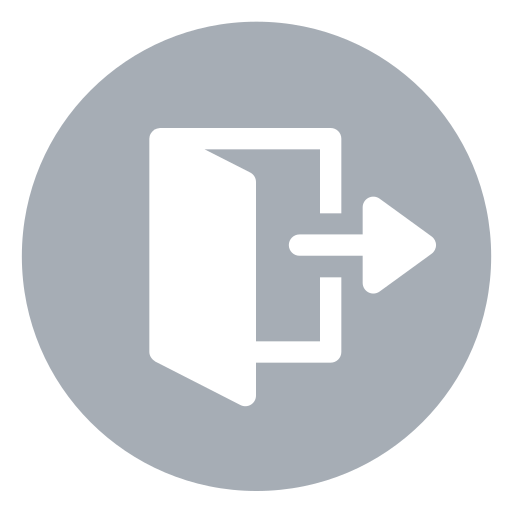
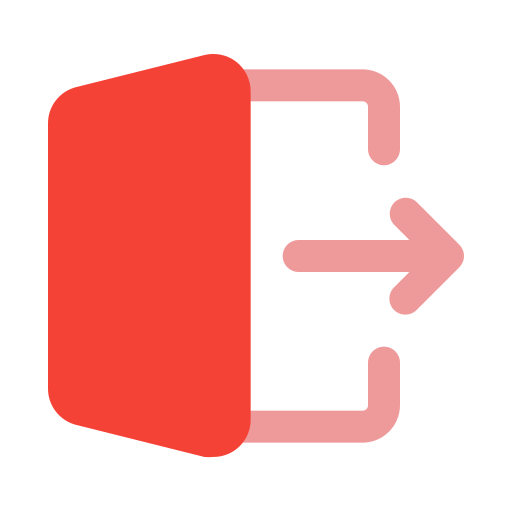
FIX : taille des icones de boutons et changement icone deconnexion

diff --git a/assets/react/controllers/components/molecules/modal/modal.tsx b/assets/react/controllers/components/molecules/modal/modal.tsx
@@ -14,7 +14,7 @@ export default function Modal({ isOpen, onClose, children }: ModalProps) {
             <div className="relative bg-white rounded-lg shadow-lg p-6 w-full max-w-md">
                 <button
                     onClick={onClose}
-                    className="absolute top-2 right-2 text-gray-500 hover:text-gray-800"
+                    className="absolute top-2 right-2 text-gray-500 hover:text-gray-800 cursor-pointer"
                 >
                     ✕
                 </button>

diff --git a/assets/react/controllers/components/pages/blockPage.tsx b/assets/react/controllers/components/pages/blockPage.tsx
@@ -92,7 +92,7 @@ const BlockPage: React.FC<BlockPageProps> = ({ blocks: initialBlock, csrfToken }
   return (
     <div className="p-8">
       <div className="flex items-center mb-6">
-        <h1 className="text-2xl font-bold">Mes Compétences</h1>
+        <h1 className="text-2xl font-bold whitespace-nowrap">Mes Compétences</h1>
         <AddButton onClick={() => setIsAddModalOpen(true)} />
       </div>
       <BlockList

diff --git a/assets/react/controllers/components/atoms/deleteButton.tsx b/assets/react/controllers/components/atoms/deleteButton.tsx
@@ -14,7 +14,7 @@ export default function DeleteButton({ onClick }: Props) {
             <img 
                 src={DeleteIcon} 
                 alt="Supprimer" 
-                className="w-5 h-5 align-middle" 
+                className="w-5 h-5 min-w-[1.25rem] min-h-[1.25rem] align-middle" 
             />
         </span>
     );

diff --git a/assets/react/controllers/components/atoms/editButton.tsx b/assets/react/controllers/components/atoms/editButton.tsx
@@ -14,7 +14,7 @@ export default function EditButton({ onClick }: Props) {
             <img 
                 src={EditIcon} 
                 alt="Modifier" 
-                className="w-5 h-5 align-middle" 
+                className="w-5 h-5 min-w-[1.25rem] min-h-[1.25rem] align-middle" 
             />
         </span>
     );

diff --git a/assets/react/controllers/components/atoms/addButton.tsx b/assets/react/controllers/components/atoms/addButton.tsx
@@ -14,7 +14,7 @@ export default function AddButton({ onClick }: Props) {
             <img 
                 src={AddIcon} 
                 alt="Ajouter" 
-                className="w-5 h-5 align-middle" 
+                className="w-5 h-5 min-w-[1.25rem] min-h-[1.25rem] align-middle" 
             />
         </span>
     );
